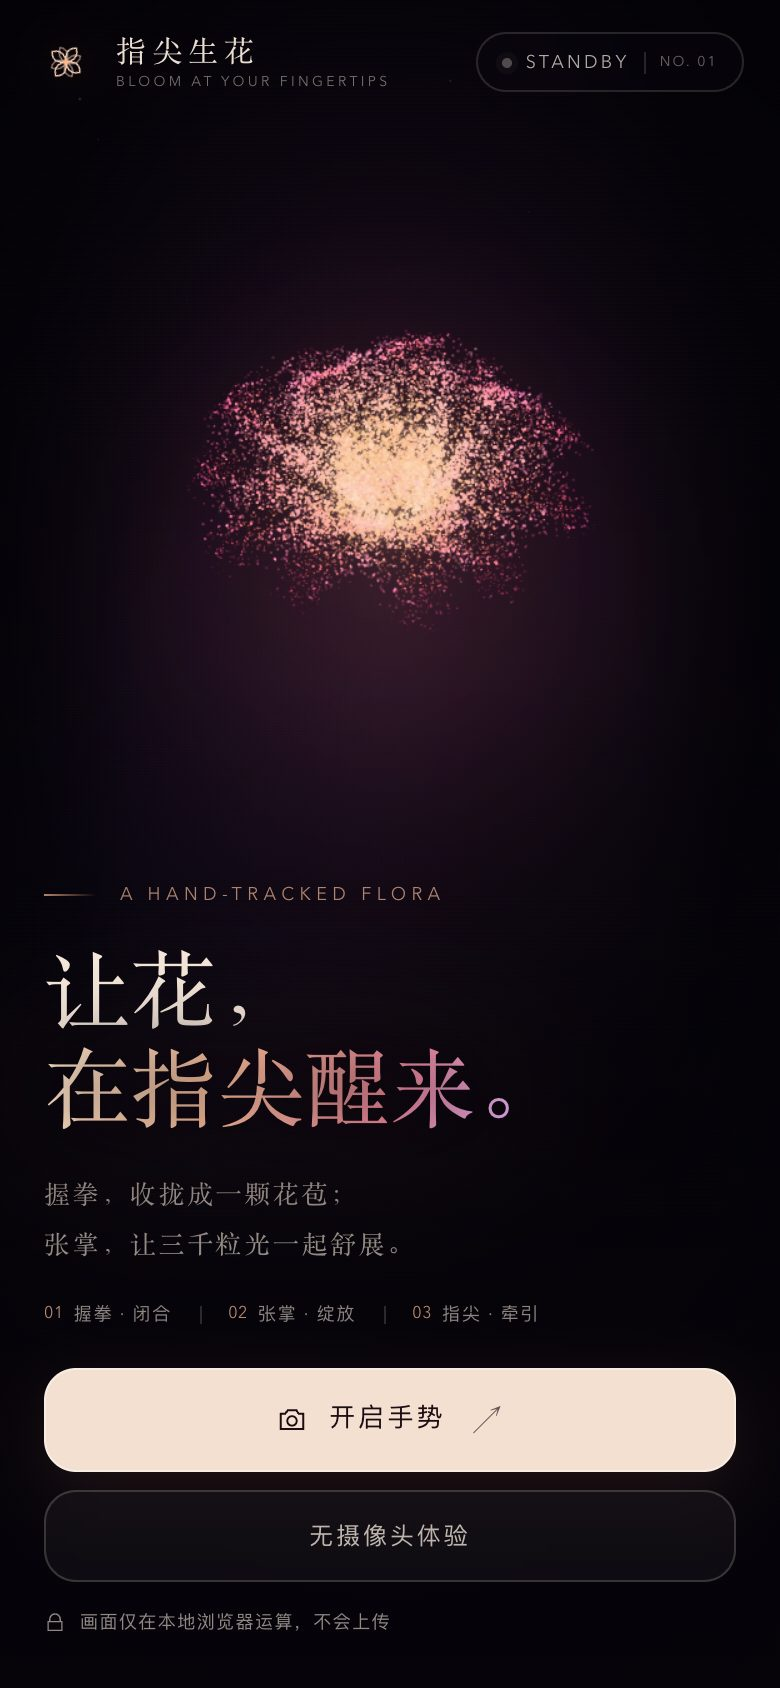
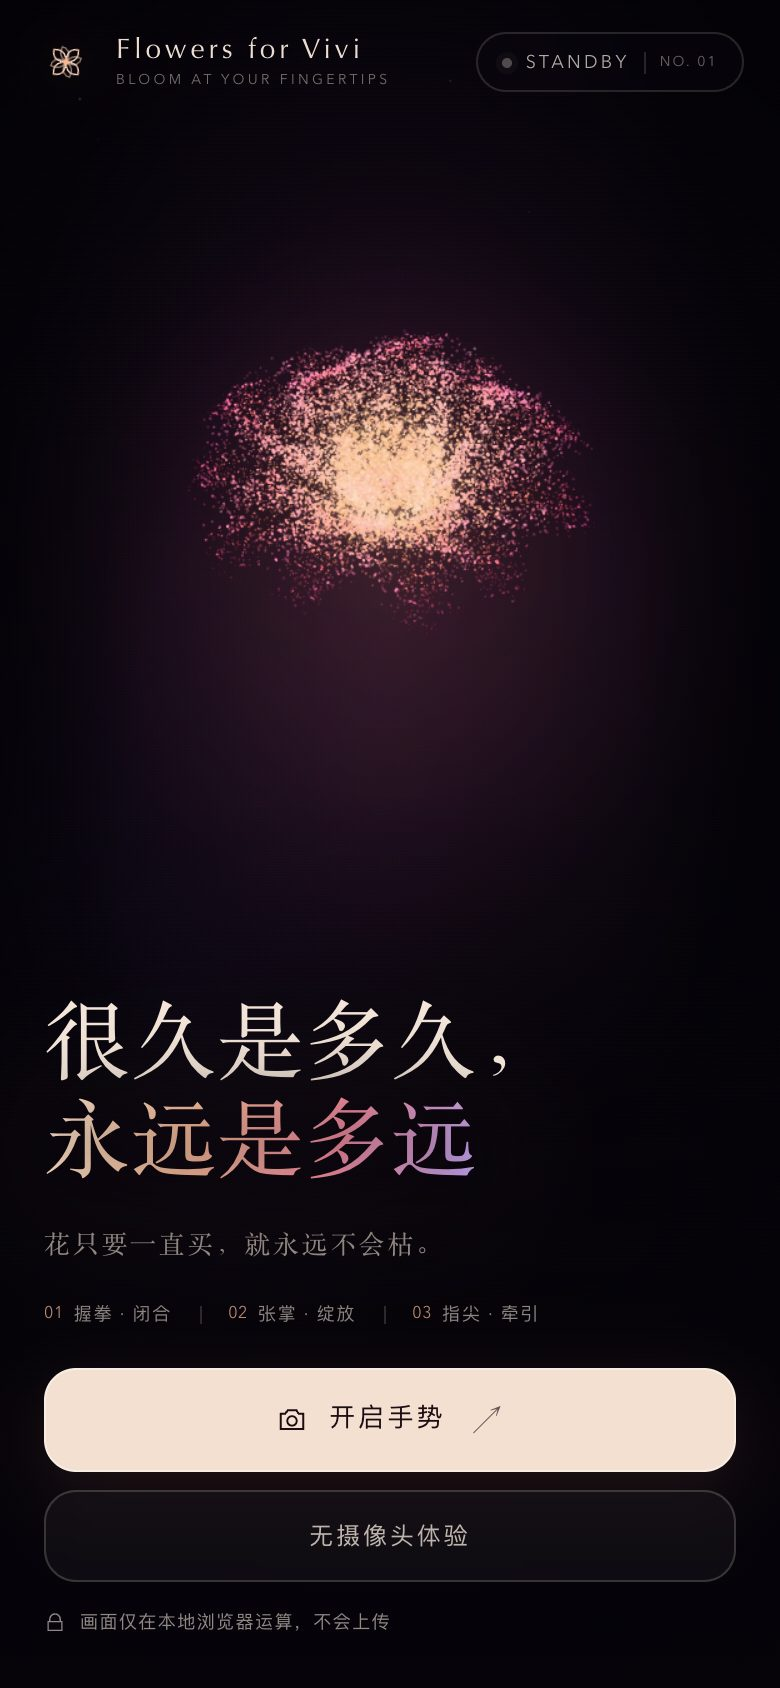
文案：Flowers for Vivi、新标题与副文案
- 品牌与页面标题替换为 Flowers for Vivi（含 manifest / PWA 名称）
- 删除 A HAND-TRACKED FLORA
- 主标题改为「很久是多久，永远是多远」
- 副文案改为「花只要一直买，就永远不会枯。」
- 小屏保留副文案，长英文品牌名适配 320px
- 更新预览图

diff --git a/src/styles.css b/src/styles.css
@@ -1,5 +1,5 @@
 /* ------------------------------------------------------------------ *
- * 指尖生花 · Bloom at Your Fingertips
+ * Flowers for Vivi · Bloom at Your Fingertips
  * Editorial nocturne / warm bioluminescence — mobile-first edition
  * ------------------------------------------------------------------ */
 
@@ -244,9 +244,9 @@ body.has-camera #camera {
 }
 
 .brand__name {
-  font-size: 15px;
+  font-size: 14px;
   line-height: 1;
-  letter-spacing: 0.2em;
+  letter-spacing: 0.14em;
   color: rgba(255, 240, 226, 0.92);
   white-space: nowrap;
 }
@@ -409,26 +409,6 @@ body.has-camera #camera {
     transform 0.8s var(--ease),
     filter 0.7s var(--ease),
     visibility 0s linear 0.8s;
-}
-
-.intro__eyebrow {
-  display: flex;
-  align-items: center;
-  gap: 12px;
-  margin: 0 0 18px;
-  font-family: var(--sans);
-  font-size: 9px;
-  line-height: 1;
-  letter-spacing: 0.3em;
-  color: rgba(255, 195, 160, 0.66);
-  text-shadow: 0 1px 12px rgba(4, 2, 8, 0.9);
-}
-
-.intro__eyebrow span {
-  display: block;
-  width: 26px;
-  height: 1px;
-  background: linear-gradient(90deg, rgba(255, 185, 145, 0.7), transparent);
 }
 
 .intro__title {
@@ -1158,16 +1138,51 @@ body.is-searching .focus-hint {
   text-align: center;
 }
 
+/* ------------------------- narrow phones (320px) ------------------------ */
+
+@media (max-width: 360px) {
+  .topbar {
+    gap: 8px;
+    padding-left: 14px;
+    padding-right: 14px;
+  }
+
+  .brand {
+    gap: 8px;
+  }
+
+  .brand__mark {
+    width: 26px;
+    height: 26px;
+  }
+
+  .brand__name {
+    font-size: 12.5px;
+    letter-spacing: 0.06em;
+  }
+
+  .brand__sub {
+    display: none;
+  }
+
+  .status {
+    height: 27px;
+    padding: 0 9px;
+    gap: 6px;
+  }
+
+  .status__text {
+    font-size: 8px;
+    letter-spacing: 0.12em;
+  }
+}
+
 /* --------------------------- compact phones ---------------------------- */
 
 @media (max-width: 899px) and (max-height: 740px) {
   .intro {
     padding-top: 22px;
     padding-bottom: calc(20px + var(--safe-bottom));
-  }
-
-  .intro__eyebrow {
-    margin-bottom: 14px;
   }
 
   .intro__title {
@@ -1213,20 +1228,18 @@ body.is-searching .focus-hint {
 }
 
 @media (max-width: 899px) and (max-height: 640px) {
-  .intro__lede {
-    display: none;
-  }
-
   .intro__privacy {
     display: none;
   }
 
-  .intro__title {
-    font-size: 2.15rem;
+  .intro__lede {
+    margin-top: 12px;
+    font-size: 12px;
+    line-height: 1.75;
   }
 
-  .intro__eyebrow {
-    margin-bottom: 10px;
+  .intro__title {
+    font-size: 2.15rem;
   }
 
   .intro__actions {
@@ -1288,7 +1301,7 @@ body.is-searching .focus-hint {
 
   .brand__name {
     font-size: 17px;
-    letter-spacing: 0.24em;
+    letter-spacing: 0.16em;
   }
 
   .brand__sub {
@@ -1332,12 +1345,6 @@ body.is-searching .focus-hint {
 
   .is-experiencing .intro {
     transform: translateY(calc(-44% + 26px));
-  }
-
-  .intro__eyebrow {
-    margin-bottom: 26px;
-    font-size: 8px;
-    letter-spacing: 0.33em;
   }
 
   .intro__title {
@@ -1508,11 +1515,6 @@ body.is-searching .focus-hint {
 
   .is-experiencing .intro {
     transform: translateY(calc(-48% + 18px));
-  }
-
-  .intro__eyebrow {
-    margin-bottom: 12px;
-    font-size: 8px;
   }
 
   .intro__title {

diff --git a/index.html b/index.html
@@ -11,12 +11,12 @@
     <meta name="color-scheme" content="dark" />
     <meta
       name="description"
-      content="指尖生花 —— 手机上的可交互手势粒子花朵。上下拖动开合，或开启摄像头，握拳为苞、张掌绽放。"
+      content="Flowers for Vivi —— 一束会开合的光。拖动开合，或开启摄像头，握拳为苞、张掌绽放。"
     />
     <meta name="apple-mobile-web-app-capable" content="yes" />
     <meta name="mobile-web-app-capable" content="yes" />
     <meta name="apple-mobile-web-app-status-bar-style" content="black-translucent" />
-    <meta name="apple-mobile-web-app-title" content="指尖生花" />
+    <meta name="apple-mobile-web-app-title" content="Flowers for Vivi" />
     <meta name="format-detection" content="telephone=no" />
     <link rel="manifest" href="./manifest.webmanifest" />
     <link rel="apple-touch-icon" href="./assets/icon-180.png" />
@@ -33,7 +33,7 @@
         }
       }
     </script>
-    <title>指尖生花 · Bloom at Your Fingertips</title>
+    <title>Flowers for Vivi · Bloom at Your Fingertips</title>
   </head>
   <body>
     <div id="app" data-mode="idle" data-gesture="idle">
@@ -64,7 +64,7 @@
             <circle cx="24" cy="24" r="2.1" fill="#ffb58d" />
           </svg>
           <div class="brand__type">
-            <span class="brand__name">指尖生花</span>
+            <span class="brand__name">Flowers for Vivi</span>
             <span class="brand__sub">BLOOM AT YOUR FINGERTIPS</span>
           </div>
         </div>
@@ -80,14 +80,12 @@
       <p class="side-note" aria-hidden="true">将手掌交给光 · LET THE LIGHT BLOOM</p>
 
       <main class="intro" id="intro">
-        <p class="intro__eyebrow"><span></span>A HAND-TRACKED FLORA</p>
         <h1 class="intro__title" id="introTitle">
-          让花，<br />
-          <em>在指尖醒来。</em>
+          很久是多久，<br />
+          <em>永远是多远</em>
         </h1>
         <p class="intro__lede">
-          握拳，收拢成一颗花苞；<br />
-          张掌，让三千粒光一起舒展。
+          花只要一直买，就永远不会枯。
         </p>
 
         <ul class="intro__steps" aria-label="体验方式">
@@ -202,7 +200,7 @@
     </div>
 
     <noscript>
-      <div class="noscript">请启用 JavaScript 以体验「指尖生花」。</div>
+      <div class="noscript">请启用 JavaScript 以体验「Flowers for Vivi」。</div>
     </noscript>
 
     <script type="module" src="./src/main.js"></script>

diff --git a/修改指南.md b/修改指南.md
@@ -1,4 +1,4 @@
-# 指尖生花 · 修改指南（手机版）
+# Flowers for Vivi · 修改指南（手机版）
 
 源码没有压缩，也没有构建步骤。改完文件刷新浏览器即可看到效果。
 

diff --git a/README.md b/README.md
@@ -1,4 +1,4 @@
-# 指尖生花 · Bloom at Your Fingertips
+# Flowers for Vivi · Bloom at Your Fingertips
 
 一个**为手机重做**的可交互手势粒子花朵：MediaPipe Hands + Three.js + GLSL。
 
